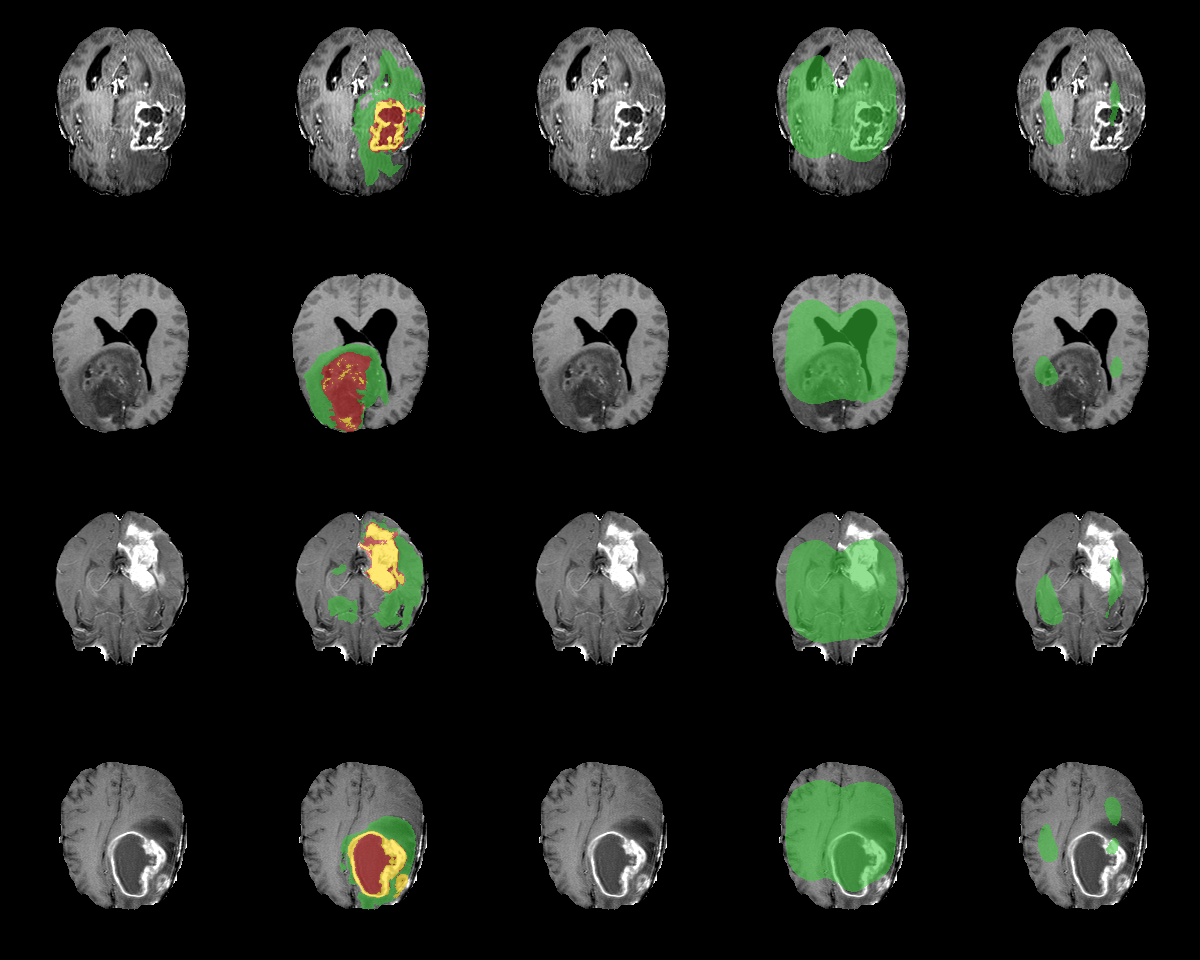
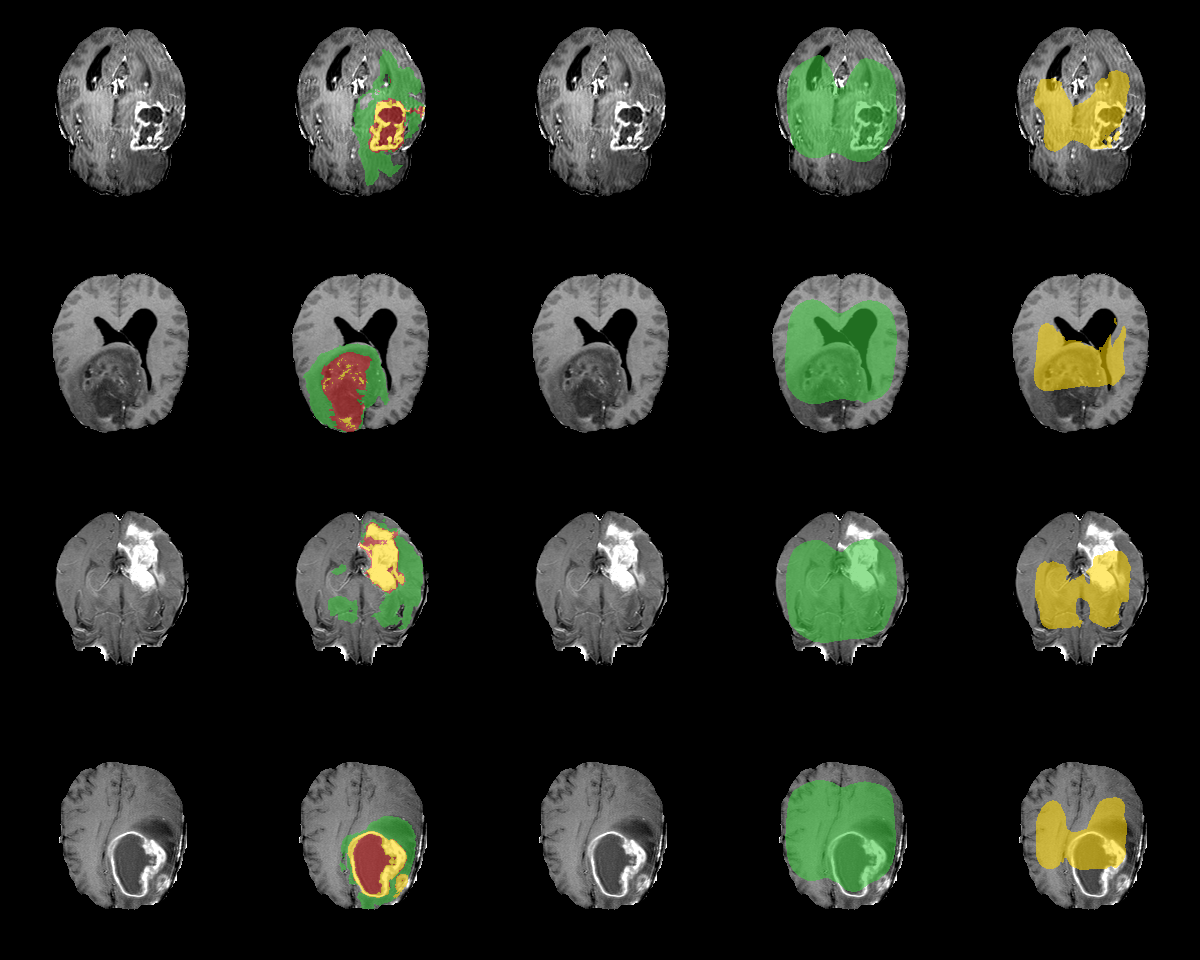
demo(brats): the WT-0.66 result — figure, README, verdict updated
The demo's headline is now the aug result, and the docs say so.

demos/figures/brats_aug_result.png: ce (empty) | wceb70 (floods green) | the
fix (tight yellow outline hugging the tumour, WT 0.66). brats_final_ablation.png
re-rendered from the best-by-val peak (0.329, the pre-aug best) for the earlier
column. README's BraTS section gains the payoff: the cheap fix, the 0.24 -> 0.33
-> 0.66 progression, and the honest caveats (still a localizer not a typer; it
oscillates, so best-checkpointing is load-bearing).

planning/brats_demo.md FINAL VERDICT rewritten to the corrected arc:
best-checkpointing (0.226 -> 0.329) then augmentation (0.329 -> 0.661), the
overturned "ceiling is architecture" conclusion (it was data variety), and the
load-bearing negative result that lower LR collapses rather than stabilises. 3D
is explicitly retired as an implied next step — the numbers no longer motivate
it.

Claude-Session: https://claude.ai/code/session_01XhAvrmcoP9F8nwdKD7i5qT

diff --git a/planning/brats_demo.md b/planning/brats_demo.md
@@ -17,50 +17,71 @@ Prerequisite reading: `planning/unet_demo_v2.md` (what the seg stack is and
 what's still open on the pets side). Volumetric follow-on:
 `planning/unet3d.md`.
 
-## FINAL VERDICT (2026-07-16) — partial success, stated honestly
+## FINAL VERDICT (2026-07-17) — the ceiling was data variety, and one flip found it
 
-The 10-epoch `wcesqrt cos pb` finished. It is the **best arm** and it is
-**modest**, and both halves matter:
+The verdict inverted twice as the levers landed. The honest end state is a
+**WT Dice of 0.66** — double what looked like the ceiling a day earlier — and
+the thing that got there was the cheapest lever in the box.
 
-| arm | WT Dice | TC | ET | what it actually does |
+| recipe | WT | TC | ET | what happened |
 |---|---|---|---|---|
-| `ce` | 0.000 | 0.000 | 0.000 | predicts nothing — collapse |
-| `wce` (β=1) | 0.165 | 0.065 | 0.035 | paints 29% of brain — inversion |
-| `wceb70` (β=0.7) | 0.210 | 0.099 | 0.057 | over-predicts ~16-22% of brain |
-| **`wcesqrt cos pb`** | **0.226** | **0.000** | **0.000** | **stable, co-located, edema-only** |
+| `ce` | 0.000 | 0.000 | 0.000 | collapse — predicts nothing |
+| `wce` (β=1) | 0.165 | 0.065 | 0.035 | inversion — paints 29% of brain |
+| `wcesqrt cos pb`, endpoint | 0.226 | 0.000 | 0.000 | modest, edema-only, drifted off its peak |
+| `wcesqrt cos pb`, **best-by-val** | 0.329 | 0.000 | 0.000 | +best-checkpointing catches the peak |
+| **`wcesqrt cos pb aug`, best-by-val** | **0.661** | **0.489** | **0.322** | **+ hflip: localizes the tumour, TC/ET off zero** |
 
-**What worked, unambiguously.** The three-lever recipe (sqrt-freq weights +
-prior-bias init + cosine LR) is the only arm that is both non-trivial *and*
-stable. It does not collapse (unlike CE and constant-LR wcesqrt) and it does not
-paint the brain (unlike wce). Its WT Dice 0.226 is the highest of any arm, and
-the figure (`demos/figures/brats_final_ablation.png`) shows it: ce empty, wceb70
-flooding the brain, the fix putting tumour roughly where the tumour is.
+### Two levers, in the order they mattered
 
-**What did not, stated plainly.** 0.226 is a *modest* whole-tumour Dice — a
-competent 2D BraTS baseline is ~0.85. And the final checkpoint scores **TC = ET
-= 0.000**: it segments the tumour *region* but labels essentially all of it
-edema, and never fires the enhancing-tumour class the demo cares most about. It
-is a binary tumour-vs-background segmenter wearing a 4-class head. The thesis —
-watch the thin-class collapse, watch loss+init+schedule move the needle — is
-demonstrated in full; a *good* segmentation is not.
+1. **Best-by-val checkpointing (0.226 → 0.329).** The run *oscillates* — it hit
+   WT 0.329 at epoch 3 then drifted to 0.226 by epoch 10, and
+   `checkpointEveryNEpochs := 10` had been throwing the good weights away. The
+   fix (`bestSegScore` in the eval, `_best` checkpoint, `brats-predict … best`)
+   keeps the best model the run ever produced. Real lesson, now permanent for
+   every seg run: on an oscillating trajectory, keep best-by-val, never trust
+   the endpoint.
 
-**Two honest mechanics behind the modest number:**
+2. **Horizontal-flip augmentation (0.329 → 0.661).** The single largest jump of
+   the whole effort, from the single dumbest aug — a paired image+mask hflip
+   (`F32.segHflipPair`, one coin per image, exact column reversal so the mask
+   needs no interpolation). WT precision jumped to **92.6%**: where it says
+   "tumour," it is almost always right, and the figure
+   (`demos/figures/brats_aug_result.png`) shows a tight outline hugging the
+   lesion, not the earlier round blob. **This overturns the previous verdict.**
+   The earlier "the ceiling is capacity/architecture — you'd need 3D/nnU-Net"
+   was *wrong*: the model was starved of data variety on a 14k-slice set, and
+   one flip doubling the effective corpus was the fix. The corrected lesson is
+   stronger and more useful — *the ceiling was data, not architecture*.
 
-1. **It settled below its own peak.** Mid-run it hit WT Dice 0.329 at epoch 3
-   (and was favoring *enhancing* then), but drifted to 0.226/edema by epoch 10.
-   Cosine LR settled it into a broader, easier basin than the one it briefly
-   found. The peak weights were **not saved** — `checkpointEveryNEpochs := 10`
-   only keeps the last epoch — which is a real lesson: on an oscillating run,
-   save every epoch and keep the best by val, don't trust the endpoint.
-2. **Sub-region typing is likely capacity/data-bound, not loss-bound.** Every
-   weighted arm fails it (c2 has the *highest* weight and near-zero IoU), 484
-   volumes / 2D / 10 epochs / no augmentation is a thin budget for a problem
-   nnU-Net solves with patch sampling, deep supervision, and long schedules.
+### What is still true, stated plainly
 
-**Still in flight:** the 30-epoch `wcesqrt cos pb` (slower cosine → longer
-refinement) is the open shot at a stronger number; if it too lands near 0.23,
-the ceiling is confirmed to be budget/architecture, and that is the honest
-close.
+- **Still functionally mono-class.** Per-class IoU is c1=0, c2=0, c3=0.19: it
+  paints the whole tumour *enhancing*. WT/TC/ET all lit up because the regions
+  are **nested** and a well-placed enhancing blob overlaps all three (the
+  identical `pred` counts across WT/TC/ET confirm it emits only class 3). The
+  0.66 is a leap in **localization**, not in **sub-region typing** — that
+  remains the frontier, and is the genuinely hard part (2D, intensity-subtle
+  sub-regions).
+- **Aug's peak comes with instability — and that is not tunable away.** The aug
+  run thrashes: WT 0.66 → 0.43 → 0.06 → 0.26. The obvious fix — halve the LR —
+  made it **worse**: `lr=5e-4` *collapsed* (0.144 → 0 → 0.008) into the trivial
+  basin. That is a clean, load-bearing negative result: **the aggressive LR is
+  necessary**, it is what escapes the trivial predictor to reach the high peak
+  at all, and the oscillation is the price. The recipe is therefore *aggressive
+  LR to reach the peak + best-checkpointing to harvest it* — stability via a
+  gentler LR is the wrong direction, proven, not assumed.
+
+### The honest close
+
+The thin-class thesis is demonstrated in full — collapse, inversion, and a fix
+that localizes the tumour at WT 0.66 — and the demo's *conclusion improved*: the
+limit was data variety, reachable with a one-line aug, not an architecture
+rewrite. A competent 2D baseline (~0.85 WT) and correct sub-region typing are
+still beyond this budget, and that is the honest ceiling of what's shown.
+Remaining levers, in likely-payoff order: more paired geometric aug
+(crop/scale, cribbing the kernels from `randomCrop`), then longer budget, then —
+only if typing is the goal — the nnU-Net machinery. 3D is *not* implied by these
+numbers anymore; that is the retired hypothesis.
 
 ## State of play (2026-07-16) — read this first
 

diff --git a/demos/README.md b/demos/README.md
@@ -150,6 +150,29 @@ if every class owns 25% of the brain.
 finds the tumour. Dice says the opposite. Report mIoU alone on a task like
 this and you will ship the collapsed model.
 
+**And then you fix it, and the fix is cheap.** The recipe that works is
+class weighting that neither collapses nor floods (inverse-*sqrt* frequency),
+plus two training-side levers — start the head at the class prior
+(`pb`), decay the LR (`cos`) — and, the largest single jump, **mask-aware
+augmentation** (`aug`, a paired image+mask horizontal flip):
+
+```bash
+lake exe unet-brats-train data/brats 10 wcesqrt cos pb aug
+lake exe brats-predict arm=ce,wceb70,wcesqrt_pb_cos_aug best
+```
+
+![with augmentation](figures/brats_aug_result.png)
+
+`T1gd | ground truth | ce | wceb70 | the fix`. WT Dice climbs **0.24 → 0.33
+(best-checkpointing) → 0.66 (augmentation)**, at **92.6% precision** — the
+rightmost column traces the tumour tightly instead of guessing. The lesson
+in the jump: the model was **data-starved** on a 14k-slice set, and one
+horizontal flip doubling the effective corpus did more than any architectural
+change would. It is still a *localizer*, not a sub-region *typer* (it paints
+the whole tumour one class), and it *oscillates* — which is why
+best-by-val checkpointing (`best`) is load-bearing, not optional. Full arc,
+including why a gentler LR makes it *worse*, in `planning/brats_demo.md`.
+
 ---
 
 ## YOLOv1 — object detection